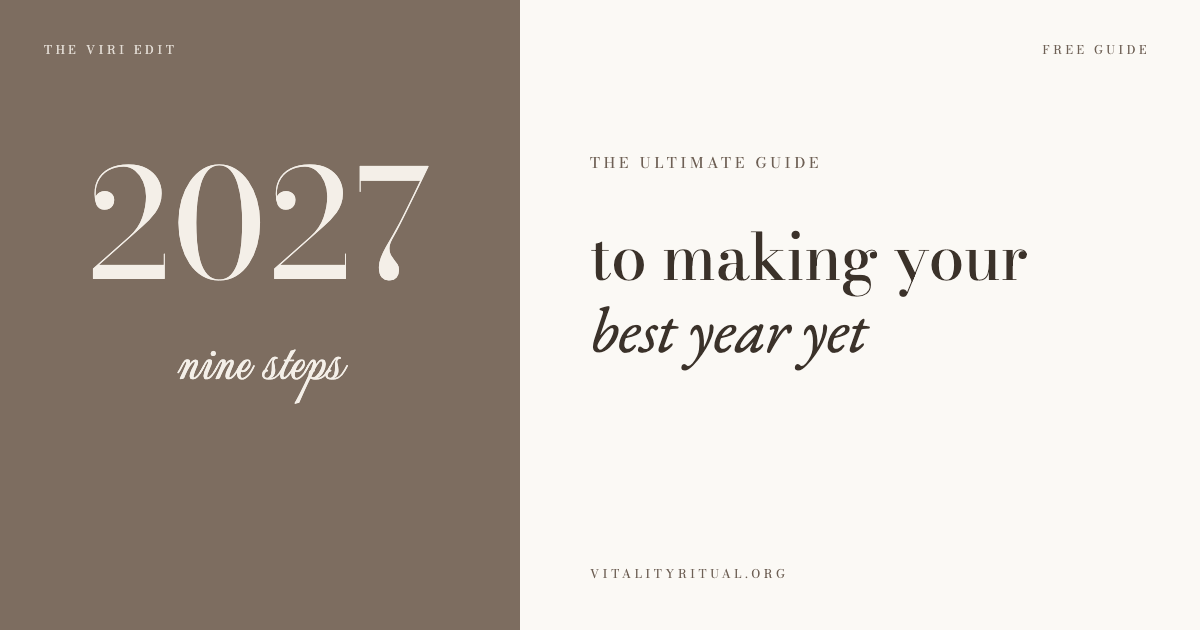
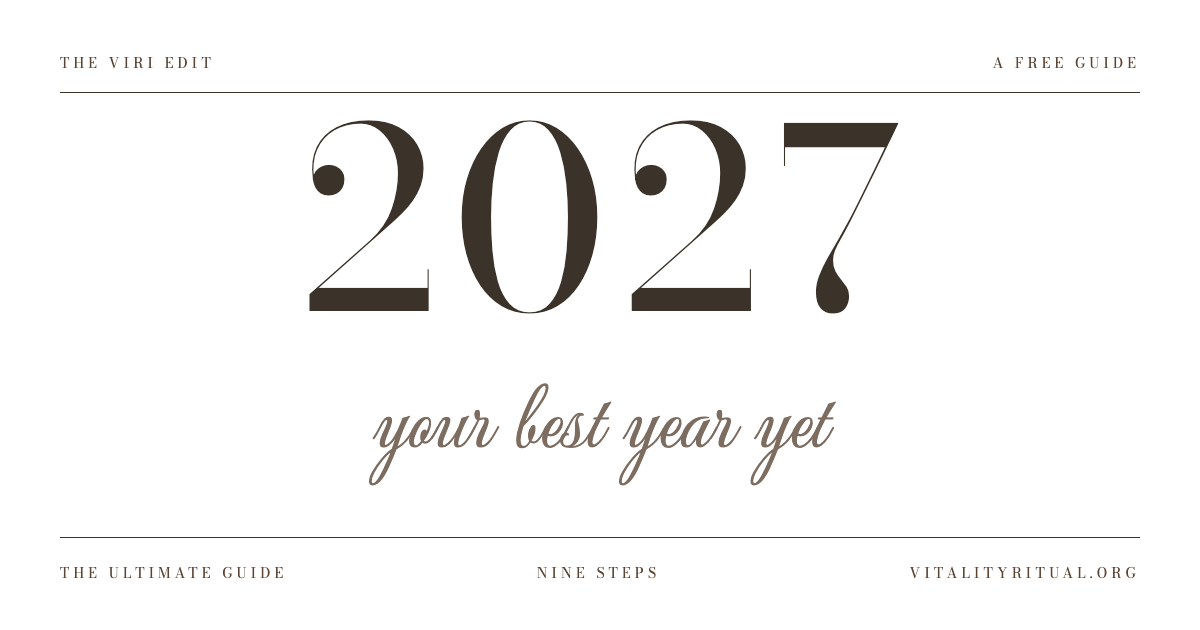
Substack cover for the 2027 guide: masthead on white

diff --git a/substack/covers/make-guide-options.py b/substack/covers/make-guide-options.py
@@ -1,0 +1,37 @@
+# Three alternative Substack covers for the 2027 guide (1200x630), for her to choose from.
+import subprocess, os
+D=os.path.join(os.path.dirname(os.path.abspath(__file__)),'guide-options')
+CHROME="/Applications/Google Chrome.app/Contents/MacOS/Google Chrome"
+HEAD='''<meta charset="utf-8"><link rel="stylesheet" href="https://fonts.googleapis.com/css2?family=Bodoni+Moda:ital,opsz,wght@0,6..96,400;1,6..96,400&family=EB+Garamond:ital@0;1&family=Mea+Culpa&display=swap"><style>*{margin:0;box-sizing:border-box}body{width:1200px;height:630px;position:relative;overflow:hidden}
+.cap{font:400 14px/1 'Bodoni Moda',serif;letter-spacing:.3em;text-transform:uppercase}.abs{position:absolute}</style>'''
+A=HEAD+'''<style>body{background:#f4efe8;color:#3b322a}.f1{position:absolute;inset:26px;border:1px solid #bfb1a3}.f2{position:absolute;inset:38px;border:1px solid #d6cec2}
+.y{position:absolute;left:0;right:0;top:112px;text-align:center;font:400 215px/1 'Mea Culpa',cursive;color:#5a4433}
+.k{position:absolute;left:0;right:0;top:372px;text-align:center;font-size:19px;letter-spacing:.3em;color:#6e6055;padding-left:.3em}
+.h{position:absolute;left:0;right:0;top:410px;text-align:center;font:italic 400 62px/1 'EB Garamond',serif}
+.t{position:absolute;top:72px;left:0;right:0;text-align:center;color:#6e6055}.b{position:absolute;bottom:72px;left:0;right:0;text-align:center;color:#6e6055}</style>
+<div class="f1"></div><div class="f2"></div><div class="cap t">The VIRI Edit &nbsp;·&nbsp; A free guide</div>
+<div class="y">2027</div><div class="cap k">The ultimate guide to making your</div><div class="h">best year yet</div><div class="cap b">Nine steps</div>'''
+B=HEAD+'''<style>body{background:#5a4433;color:#f4efe8}
+.t{position:absolute;top:56px;left:70px;opacity:.78}.r{position:absolute;top:56px;right:70px;opacity:.78}
+.q{position:absolute;left:70px;right:70px;top:170px;font:italic 400 108px/1.04 'EB Garamond',serif}
+.s{position:absolute;left:70px;top:420px;font:400 26px/1.4 'Bodoni Moda',serif;letter-spacing:.06em;opacity:.9}
+.b{position:absolute;left:70px;bottom:56px;opacity:.78}</style>
+<div class="cap t">The VIRI Edit</div><div class="cap r">Free guide</div>
+<div class="q">make 2027<br>your best year yet.</div><div class="s">The ultimate guide, in nine steps</div><div class="cap b">vitalityritual.org</div>'''
+C=HEAD+'''<style>body{background:#d6cec2;color:#3b322a}
+.top{position:absolute;left:60px;right:60px;top:56px;display:flex;justify-content:space-between;color:#5a4433}
+.rl{position:absolute;left:60px;right:60px;height:1px;background:#3b322a}
+.big{position:absolute;left:0;right:0;top:96px;text-align:center;font:400 250px/1 'Bodoni Moda',serif;letter-spacing:.06em;padding-left:.06em;color:#3b322a}
+.s{position:absolute;left:0;right:0;top:370px;text-align:center;font:400 96px/1 'Mea Culpa',cursive;color:#7d6d60}
+.bot{position:absolute;left:60px;right:60px;bottom:50px;display:flex;justify-content:space-between;color:#5a4433}</style>
+<div class="top cap"><span>The VIRI Edit</span><span>A free guide</span></div><div class="rl" style="top:92px"></div>
+<div class="big">2027</div><div class="s">your best year yet</div>
+<div class="rl" style="bottom:92px"></div><div class="bot cap"><span>The ultimate guide</span><span>Nine steps</span><span>vitalityritual.org</span></div>'''
+for n,h in (('a-framed',A),('b-cocoa',B),('c-masthead',C)):
+    f=os.path.join(D,n+'-src.html'); open(f,'w',encoding='utf-8').write(h)
+    subprocess.run([CHROME,'--headless=new','--disable-gpu','--hide-scrollbars','--force-prefers-color-scheme=light','--virtual-time-budget=8000','--window-size=1200,630','--screenshot='+os.path.join(D,n+'.png'),'file://'+f],stdout=subprocess.DEVNULL,stderr=subprocess.DEVNULL)
+    os.remove(f)
+cells=''.join(f'<div><img src="file://{D}/{n}.png"><p>{l}</p></div>' for n,l in (('a-framed','A'),('b-cocoa','B'),('c-masthead','C')))
+f=os.path.join(D,'sheet.html'); open(f,'w').write(f'<meta charset="utf-8"><style>body{{margin:0;background:#efe9e1;width:1260px;padding:30px;font-family:Georgia}}div{{margin-bottom:26px}}img{{width:1200px;display:block;box-shadow:0 2px 12px rgba(0,0,0,.18)}}p{{font:700 28px Arial;margin:8px 0 0}}</style>{cells}')
+subprocess.run([CHROME,'--headless=new','--disable-gpu','--hide-scrollbars','--allow-file-access-from-files','--virtual-time-budget=8000','--window-size=1260,2300','--screenshot='+os.path.join(D,'sheet.png'),'file://'+f],stdout=subprocess.DEVNULL,stderr=subprocess.DEVNULL)
+os.remove(f); print('ok')

diff --git a/substack/covers/make-guide-2027.py b/substack/covers/make-guide-2027.py
@@ -1,22 +1,20 @@
 # Substack cover for "The Ultimate Guide to Making 2027 Your Best Year Yet" (1200x630).
-# Split-postcard layout (flat taupe panel + cream panel), deliberately unlike the striped-card covers.
+# Masthead layout on white (her pick, 25 Nov 2026): huge Bodoni "2027", Mea Culpa line, thin rules.
 #   python3 substack/covers/make-guide-2027.py
 import subprocess, os
 D=os.path.dirname(os.path.abspath(__file__))
 CHROME="/Applications/Google Chrome.app/Contents/MacOS/Google Chrome"
-html='''<meta charset="utf-8"><link rel="stylesheet" href="https://fonts.googleapis.com/css2?family=Bodoni+Moda:ital,opsz,wght@0,6..96,400;1,6..96,400&family=EB+Garamond:ital@1&family=Mea+Culpa&display=swap">
-<style>*{margin:0;box-sizing:border-box}body{width:1200px;height:630px;display:flex;background:#fbf9f5;position:relative;overflow:hidden}
-.L{width:520px;height:630px;background:#7d6d60;color:#f4efe8;position:relative}
-.L .y{position:absolute;left:0;right:0;top:150px;text-align:center;font:400 150px/1 'Bodoni Moda',serif;letter-spacing:.02em}
-.L .s{position:absolute;left:0;right:0;top:330px;text-align:center;font:400 62px/1 'Mea Culpa',cursive;color:#f4efe8}
-.L .t{position:absolute;left:44px;top:44px;font:400 12px/1 'Bodoni Moda',serif;letter-spacing:.3em;text-transform:uppercase;opacity:.85}
-.R{flex:1;position:relative;color:#3b322a}
-.R .k{position:absolute;left:70px;top:150px;font:400 15px/1.7 'Bodoni Moda',serif;letter-spacing:.26em;text-transform:uppercase;color:#6e6055}
-.R .h{position:absolute;left:70px;top:222px;font:400 64px/1.12 'Bodoni Moda',serif;letter-spacing:-.005em}.R .h i{font-family:'EB Garamond',serif;font-style:italic}
-.R .b{position:absolute;left:70px;bottom:50px;font:400 12px/1 'Bodoni Moda',serif;letter-spacing:.3em;text-transform:uppercase;color:#6e6055}
-.R .n{position:absolute;right:50px;top:44px;font:400 12px/1 'Bodoni Moda',serif;letter-spacing:.3em;text-transform:uppercase;color:#6e6055}</style>
-<div class="L"><span class="t">The VIRI Edit</span><div class="y">2027</div><div class="s">nine steps</div></div>
-<div class="R"><span class="n">Free guide</span><div class="k">The ultimate guide</div><div class="h">to making your<br><i>best year yet</i></div><div class="b">vitalityritual.org</div></div>'''
+html='''<meta charset="utf-8"><link rel="stylesheet" href="https://fonts.googleapis.com/css2?family=Bodoni+Moda:ital,opsz,wght@0,6..96,400;1,6..96,400&family=Mea+Culpa&display=swap">
+<style>*{margin:0;box-sizing:border-box}body{width:1200px;height:630px;position:relative;overflow:hidden;background:#ffffff;color:#3b322a}
+.cap{font:400 14px/1 'Bodoni Moda',serif;letter-spacing:.3em;text-transform:uppercase}
+.top{position:absolute;left:60px;right:60px;top:56px;display:flex;justify-content:space-between;color:#5a4433}
+.rl{position:absolute;left:60px;right:60px;height:1px;background:#3b322a}
+.big{position:absolute;left:0;right:0;top:96px;text-align:center;font:400 250px/1 'Bodoni Moda',serif;letter-spacing:.06em;padding-left:.06em;color:#3b322a}
+.s{position:absolute;left:0;right:0;top:370px;text-align:center;font:400 96px/1 'Mea Culpa',cursive;color:#7d6d60}
+.bot{position:absolute;left:60px;right:60px;bottom:50px;display:flex;justify-content:space-between;color:#5a4433}</style>
+<div class="top cap"><span>The VIRI Edit</span><span>A free guide</span></div><div class="rl" style="top:92px"></div>
+<div class="big">2027</div><div class="s">your best year yet</div>
+<div class="rl" style="bottom:92px"></div><div class="bot cap"><span>The ultimate guide</span><span>Nine steps</span><span>vitalityritual.org</span></div>'''
 f=os.path.join(D,'guide-2027-cover-source.html'); open(f,'w',encoding='utf-8').write(html)
 subprocess.run([CHROME,'--headless=new','--disable-gpu','--hide-scrollbars','--force-prefers-color-scheme=light','--virtual-time-budget=8000','--window-size=1200,630','--screenshot='+os.path.join(D,'substack-guide-2027.png'),'file://'+f],stdout=subprocess.DEVNULL,stderr=subprocess.DEVNULL)
 os.remove(f); print('ok')
